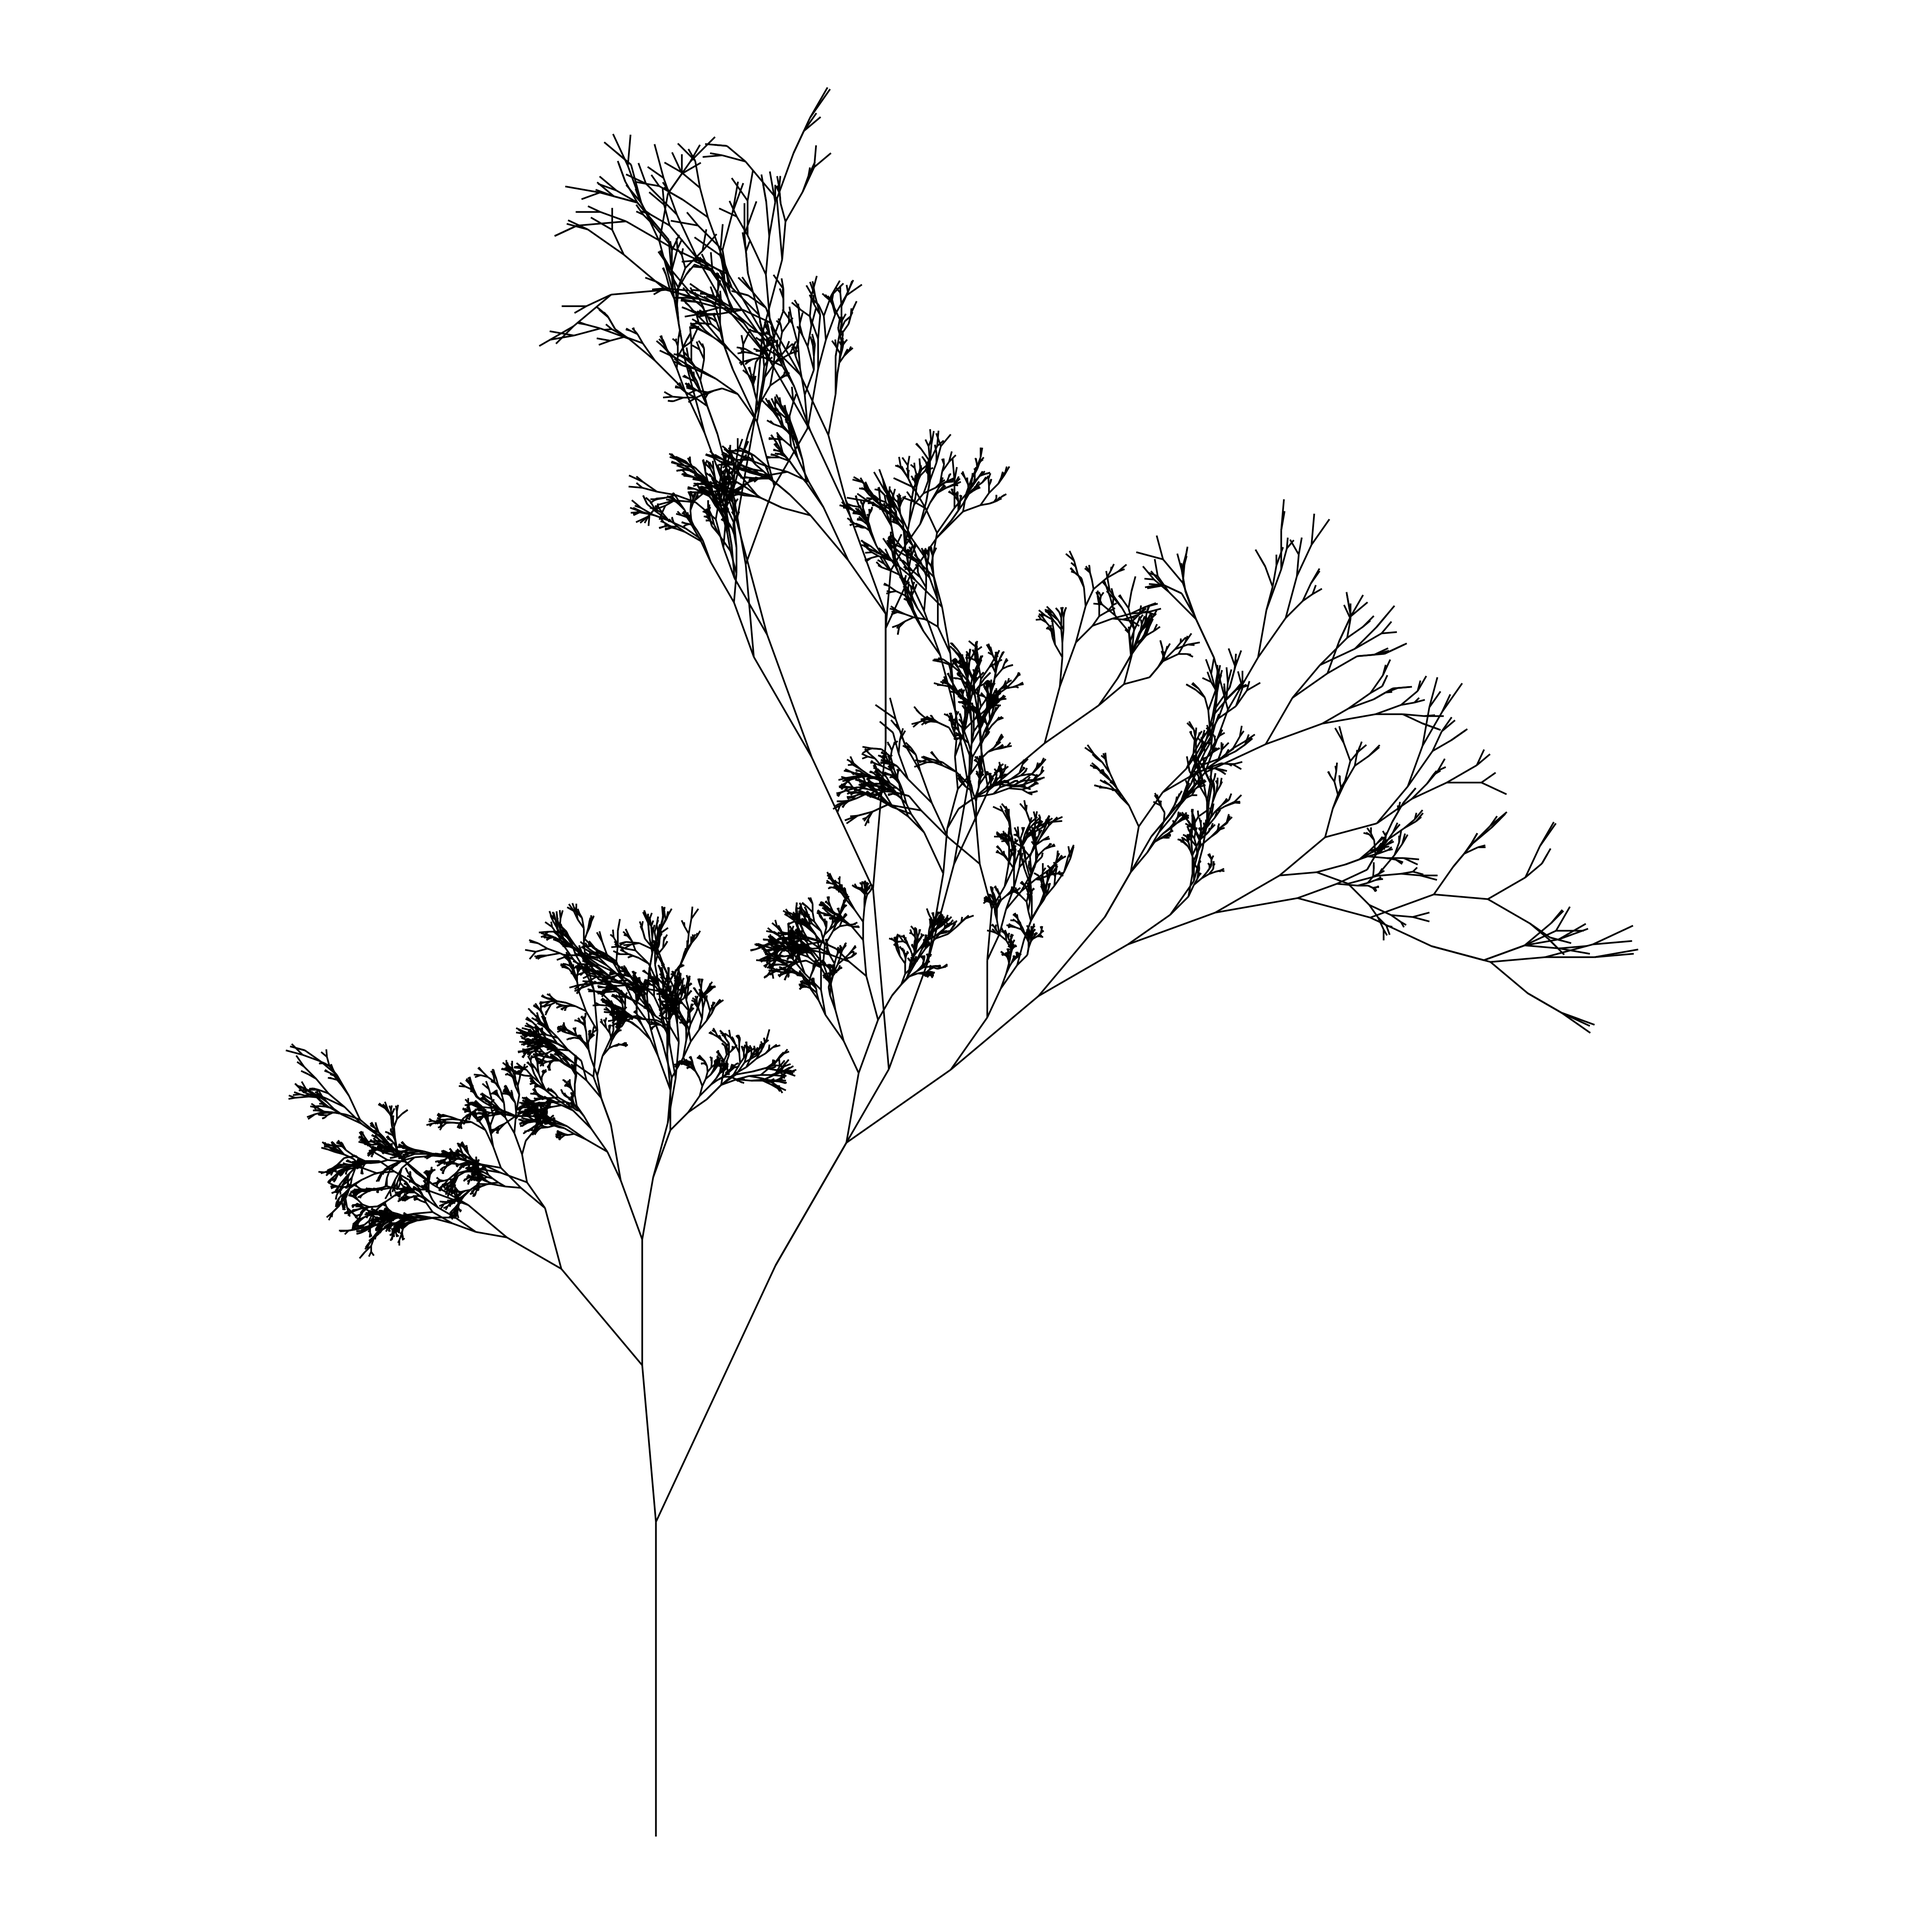
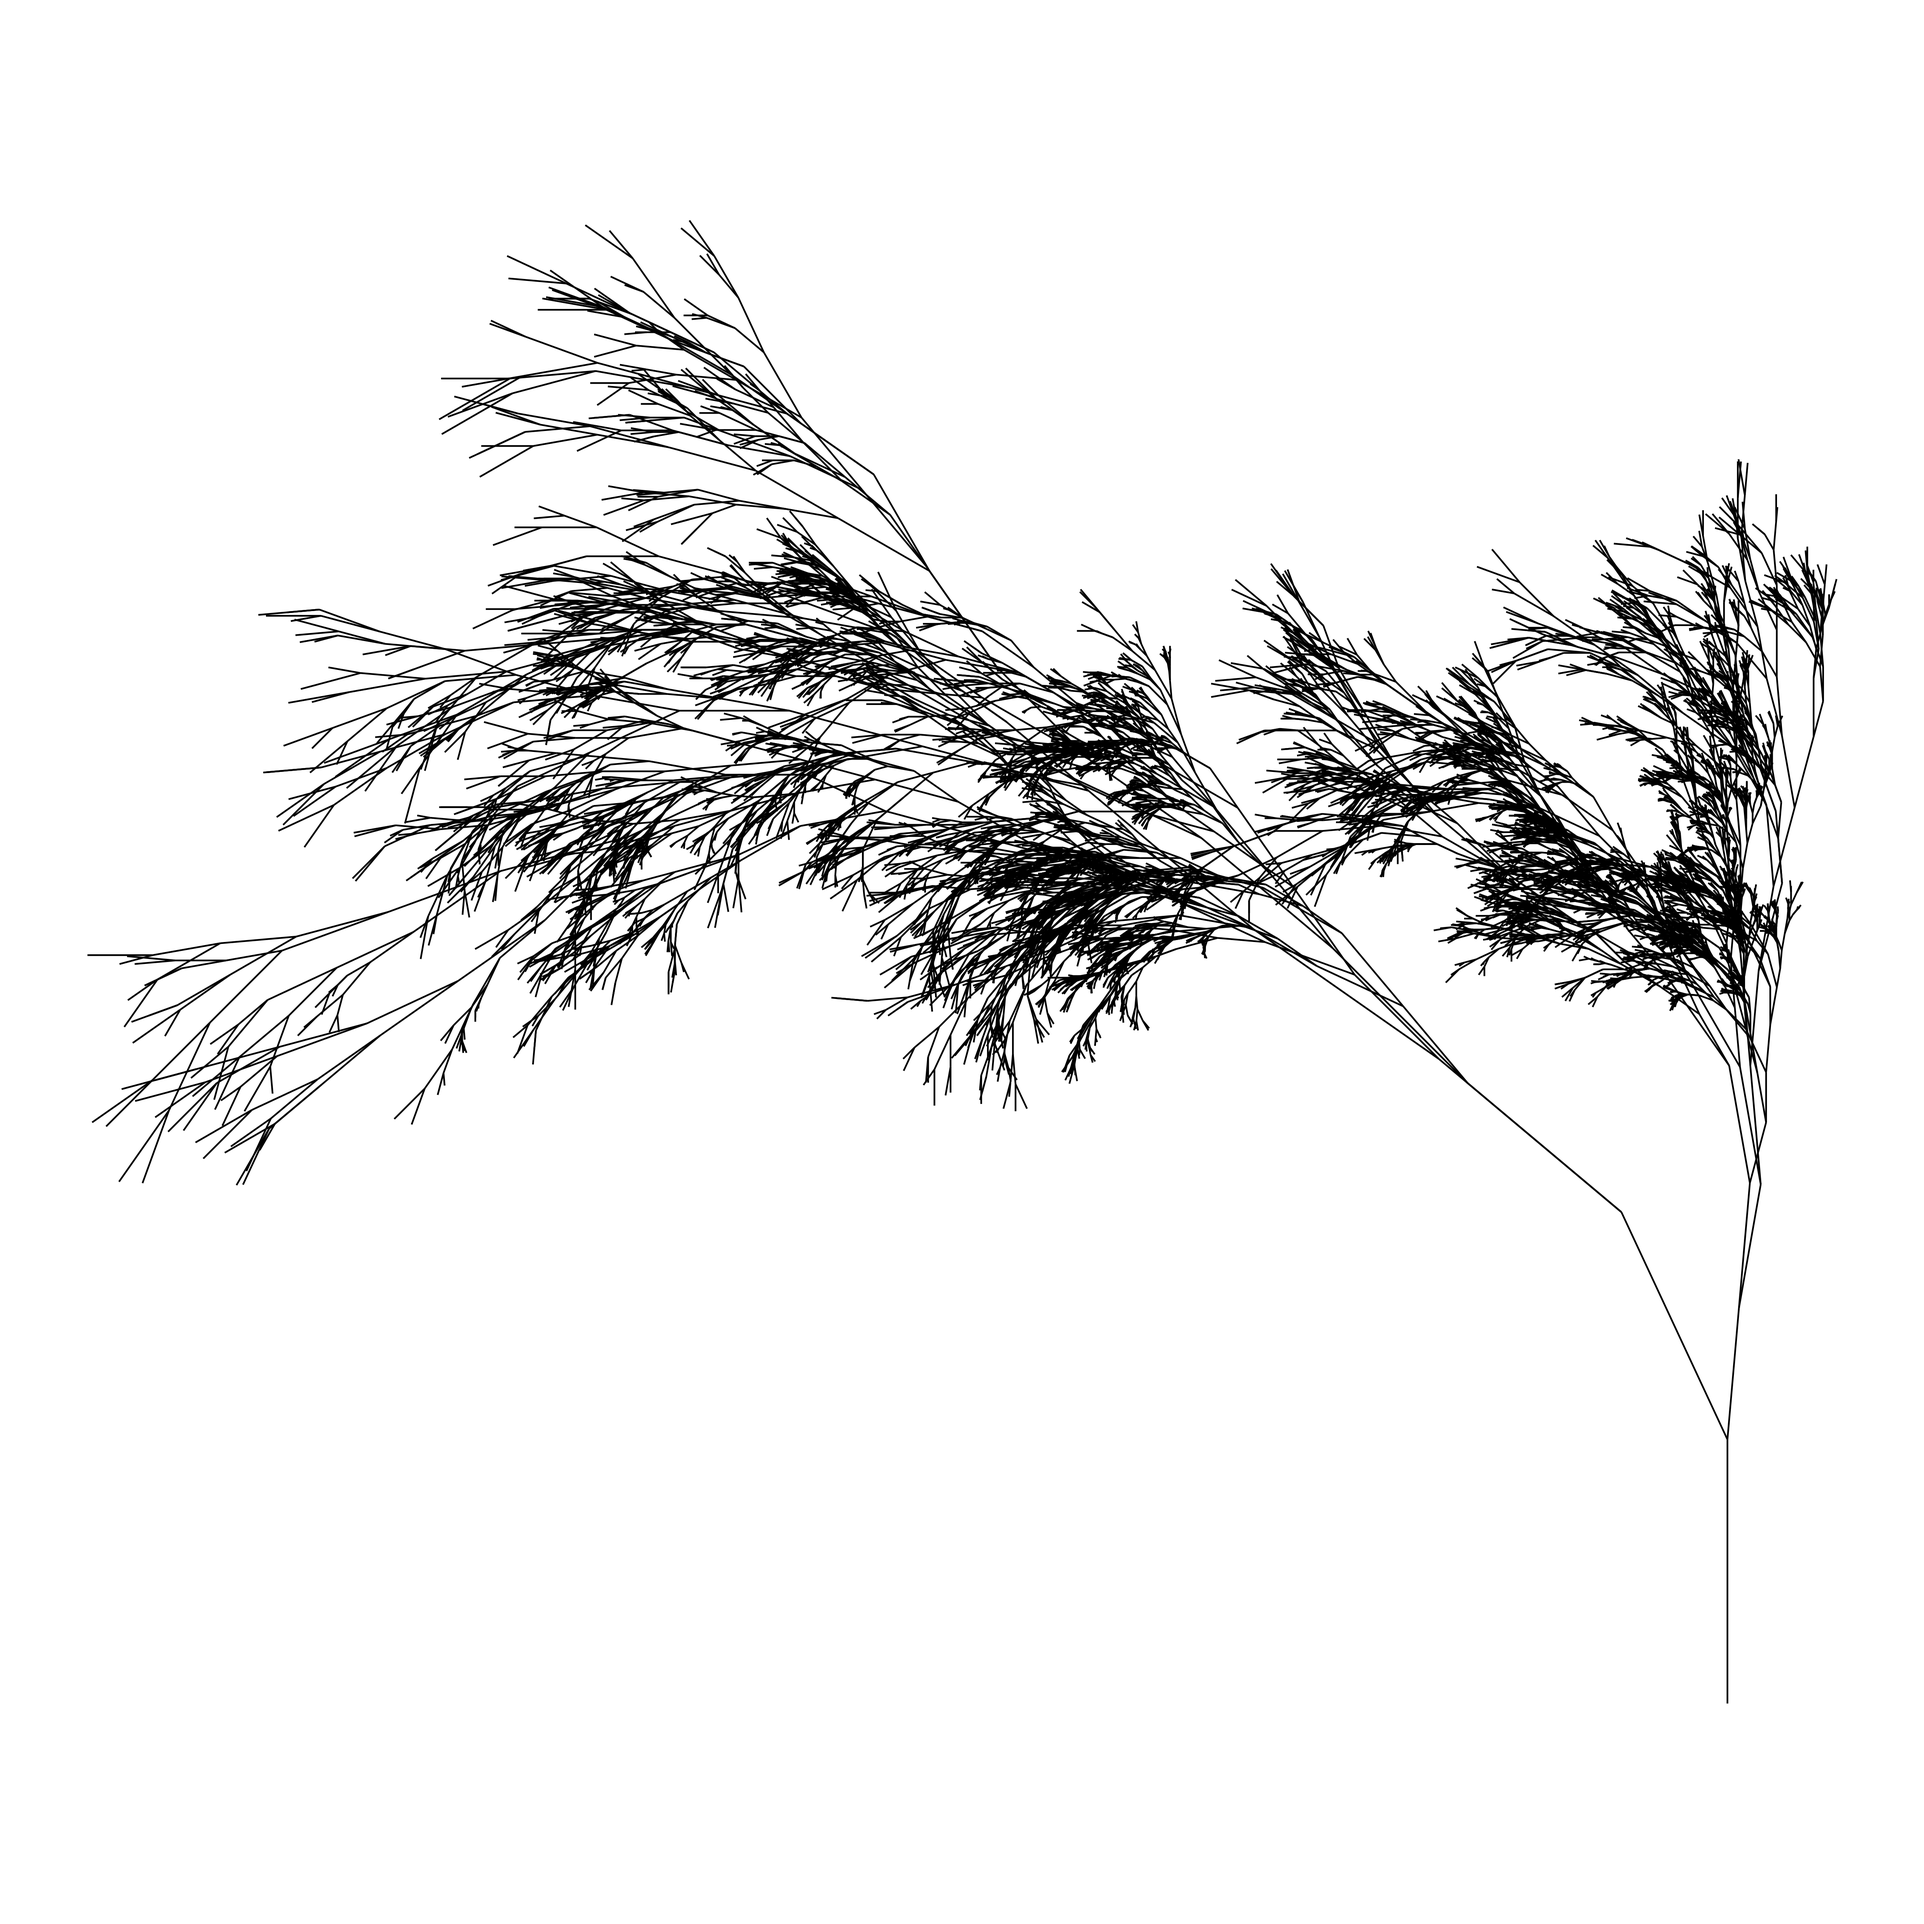
splits ashtree into files to mirror the video

Changed region(s): [[0.0624, 0.0624, 0.9672, 0.6552], [0.7176, 0.5304, 0.7488, 0.5616]]

diff --git a/README.md b/README.md
@@ -6,7 +6,7 @@
 The `ashtree` system is a simplified version of the `flametree` package
 (<https://github.com/djnavarro/flametree>) that I use for teaching
 purposes. Sourcing the `ashtree.R` script creates the `ashtree.png`
-file. At the default settings (see line 112) the image generated looks
-like this:
+file. At the “default settings” (the ones I ended up with in the
+videos\!) the image generated looks like this:
 
 ![](ashtree.png)
